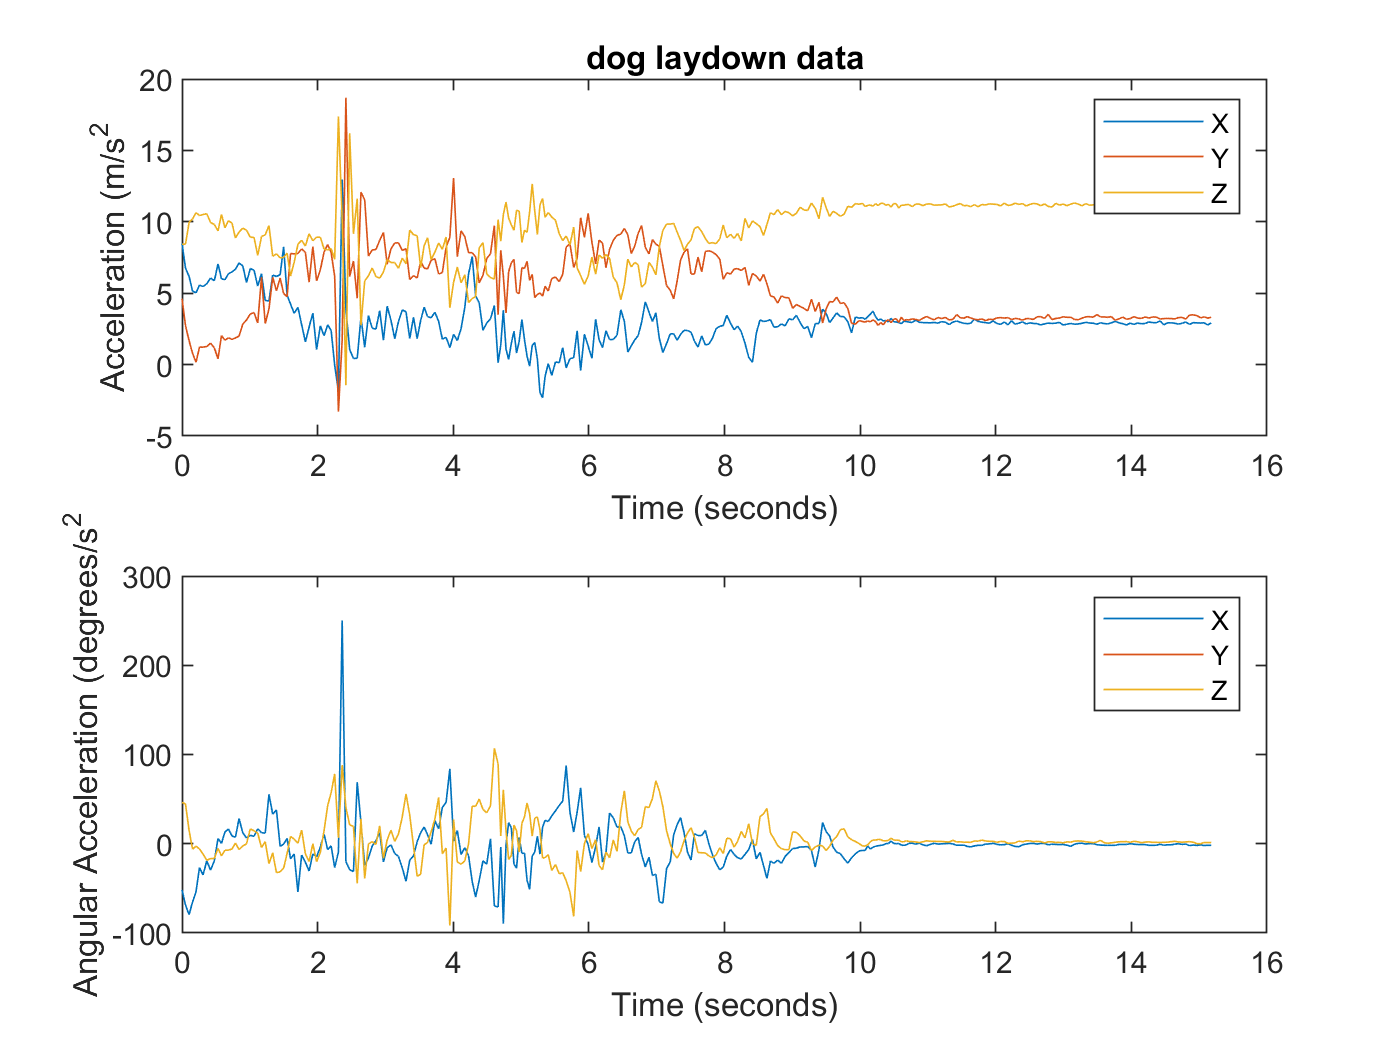
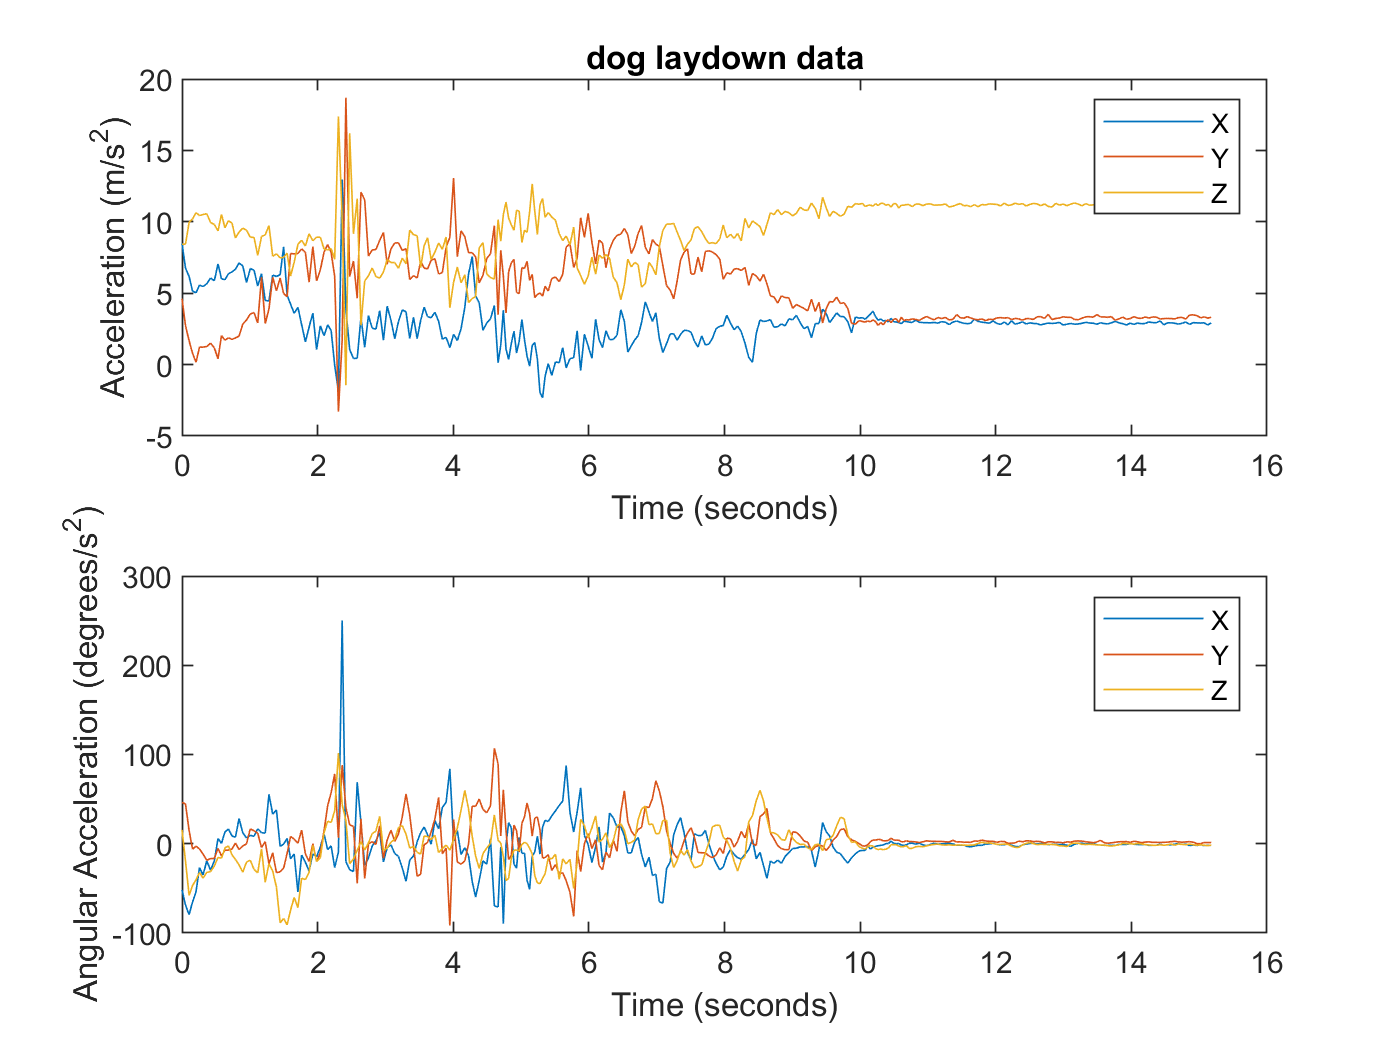
fixed typo in dogGraph.m and updated figures

Changed region(s): [[0.1229, 0.7314, 0.86, 0.8838], [0.0307, 0.4876, 0.0921, 0.9448], [0.0614, 0.1219, 0.0921, 0.3962]]

diff --git a/RPi_dog/dogGraph.m b/RPi_dog/dogGraph.m
@@ -13,7 +13,7 @@ for i = 2:(length(A)-1)
     duration = timestamp-start;
     time(i-1) = seconds(duration);
     accel(i-1,:) = [line(2) line(3) line(4)];
-    gyro(i-1,:) = [line(5) line(6) line(6)];
+    gyro(i-1,:) = [line(5) line(6) line(7)];
 end
 
 %time = time - time(1); %set time to start at 0
@@ -24,13 +24,13 @@ subplot(2,1,1)
 plot(time(1:end-1),accel(1:end-1, :))
 legend("X", "Y", "Z")
 xlabel("Time (seconds)")
-ylabel("Acceleration (m/s^2")
+ylabel("Acceleration (m/s^2)")
 title(name)
 hold on
 subplot(2,1,2)
 plot(time(1:end-1),gyro(1:end-1, :))
 legend("X", "Y", "Z")
 xlabel("Time (seconds)")
-ylabel("Angular Acceleration (degrees/s^2")
+ylabel("Angular Acceleration (degrees/s^2)")
 
 
